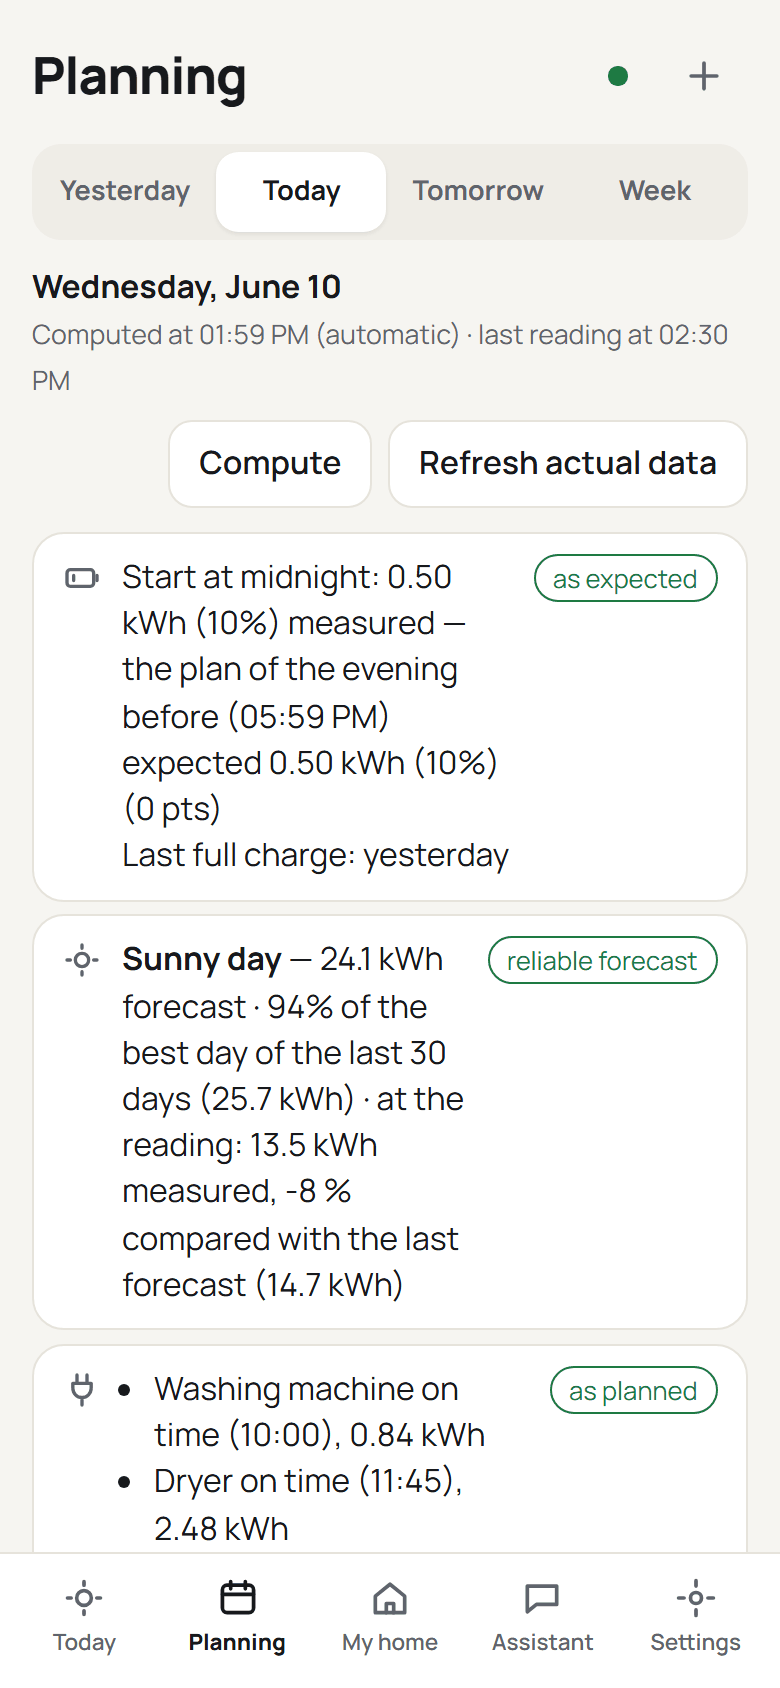
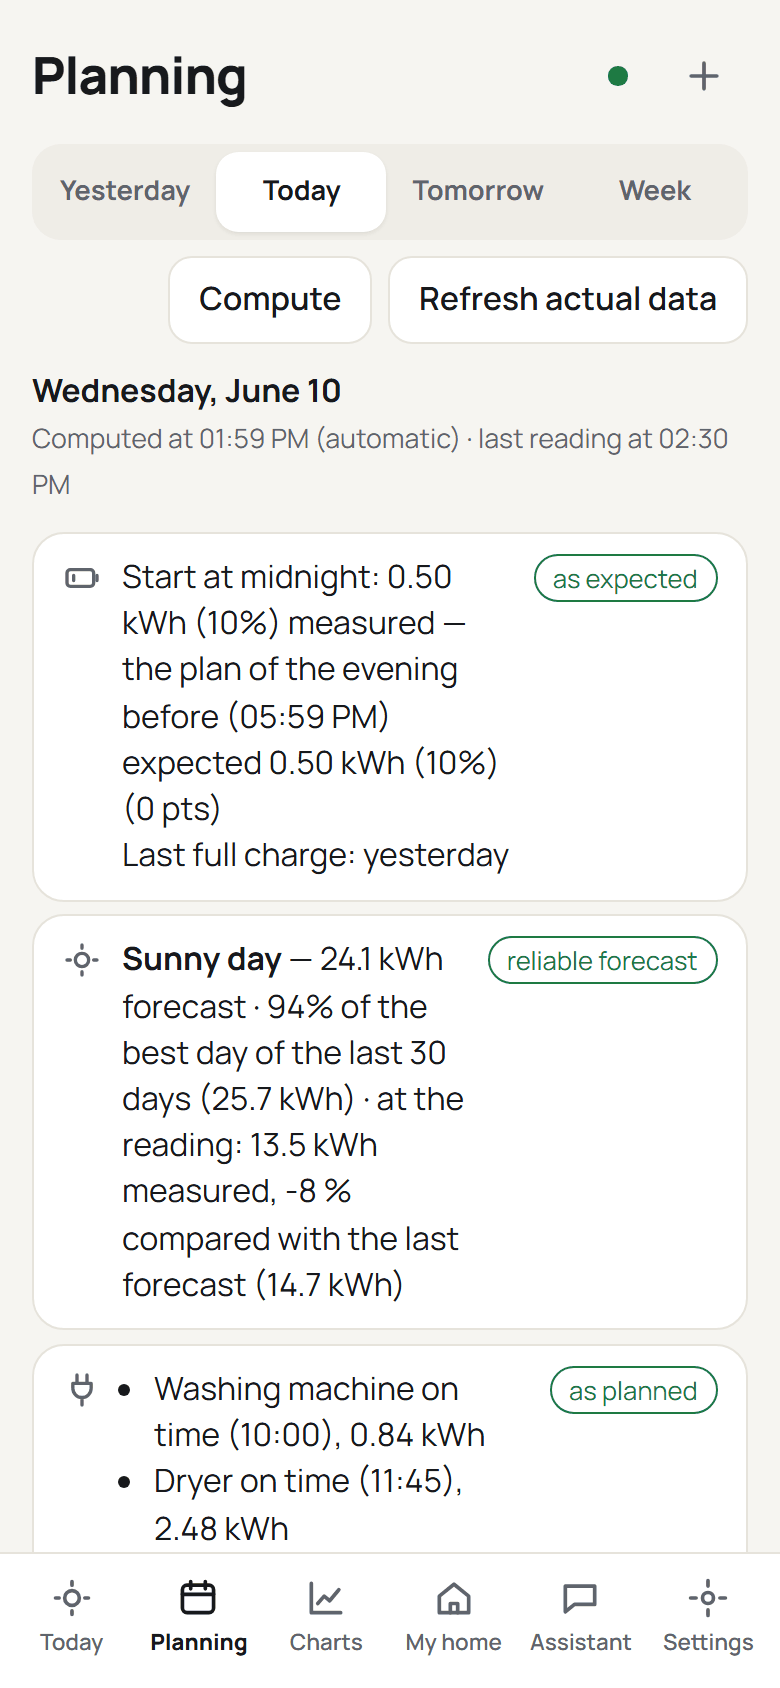
Guide : section Courbes, bêta, captures refaites
- Les écrans : six sections ; nouvelle section Courbes (Charts en anglais),
  sortie de Planning, avec la Semaine en tableau ; onglet Données illustré ;
  cartes « Version bêta » et « Soutenir WattSlot » des Réglages.
- Accueil du guide et FAQ : comment donner son avis sur la bêta.
- Les 26 captures refaites sur la maison de démonstration (EN et FR),
  plus Courbes, la Semaine et l'onglet Données.
- Outil de captures : dossier docs/images, onglet choisi par capture, et
  horloge du navigateur corrigée (Playwright lisait les millisecondes comme
  des secondes : l'an 58410, d'où l'onglet Données en erreur).
- « Donner mon avis » n'est plus souligné.
- README : capture d'Aujourd'hui sur ordinateur ; « Charts » en anglais.

diff --git a/app/frontend/src/styles.css b/app/frontend/src/styles.css
@@ -2122,6 +2122,11 @@ p[role="status"]:not(.state-message) {
   vertical-align: middle;
 }
 
+/* « Donner mon avis » : un lien qui a l'air d'un bouton, sans soulignement. */
+.beta-cards a.ui-button {
+  text-decoration: none;
+}
+
 .beta-cards {
   display: grid;
   gap: 1rem;

diff --git a/dev/tools/screenshots.py b/dev/tools/screenshots.py
@@ -6,7 +6,7 @@ Sur la démonstration de ``tools.demo`` (maison synthétique, aucune donnée ré
 1. génère le dossier de données (31 jours simulés, calculs horaires du vrai serveur) ;
 2. lance l'application sur ce dossier, heure figée, connectée au faux Home Assistant ;
 3. photographie les écrans (``SHOTS``) sur téléphone et sur ordinateur, en thème clair (Ivoire)
-   et sombre (Graphite), dans ``public/docs/images/<langue>/`` ; le navigateur est à la même
+   et sombre (Graphite), dans ``docs/images/<langue>/`` ; le navigateur est à la même
    heure que le serveur et n'atteint aucun site extérieur.
 
 Prérequis : l'interface construite (``npm run build`` dans ``app/frontend``), l'environnement du
@@ -28,11 +28,12 @@ import urllib.request
 from collections.abc import Iterator
 from contextlib import contextmanager
 from dataclasses import dataclass
+from datetime import UTC, datetime
 from pathlib import Path
 
 ROOT = Path(__file__).resolve().parents[2]
 DEV = ROOT / "dev"
-OUTPUT = ROOT / "public" / "docs" / "images"
+OUTPUT = ROOT / "docs" / "images"
 LANGUAGES = ("en", "fr")
 THEMES = {"light": "ivory", "dark": "graphite"}
 DEVICES = {"phone": (390, 844), "desktop": (1440, 900)}
@@ -47,6 +48,8 @@ class Shot:
     device: str  # clé de DEVICES
     theme: str  # clé de THEMES
     full_page: bool = False
+    # Préférences de la capture : onglet de Courbes (``plan.tab``) ou de Ma maison (``home.tab``).
+    extra: tuple[tuple[str, str], ...] = ()
 
 
 SHOTS: tuple[Shot, ...] = (
@@ -56,11 +59,19 @@ SHOTS: tuple[Shot, ...] = (
     Shot("planning-desktop-light", "/planning", "desktop", "light", full_page=True),
     Shot("planning-desktop-dark", "/planning", "desktop", "dark", full_page=True),
     Shot("planning-phone-light", "/planning", "phone", "light"),
+    Shot("curves-desktop-light", "/curves", "desktop", "light", full_page=True),
+    Shot("curves-week-desktop-light", "/curves", "desktop", "light", extra=(("plan.tab", "week"),)),
     Shot("home-desktop-light", "/home", "desktop", "light"),
+    Shot("home-data-desktop-light", "/home", "desktop", "light", extra=(("home.tab", "data"),)),
     Shot("assistant-desktop-light", "/assistant", "desktop", "light"),
-    Shot("settings-desktop-light", "/settings", "desktop", "light"),
+    Shot("settings-desktop-light", "/settings", "desktop", "light", full_page=True),
     Shot("status-desktop-light", "/settings/status", "desktop", "light"),
 )
+
+
+def browser_now() -> datetime:
+    """Heure figée du navigateur, celle de la démonstration."""
+    return datetime.fromtimestamp(NOW_MS / 1000, tz=UTC)
 
 
 def output_path(language: str, shot: Shot) -> Path:
@@ -70,10 +81,10 @@ def output_path(language: str, shot: Shot) -> Path:
 def storage(language: str, shot: Shot) -> dict[str, str]:
     """Préférences du navigateur posées avant la capture (clés de l'interface)."""
     return {
+        **dict(shot.extra),
         "wattslot.language": language,
         "wattslot.theme": THEMES[shot.theme],
         "wattslot.menu": "open",
-        "plan.curves": "open",  # « Courbes détaillées » dépliées dans Planning
     }
 
 
@@ -169,7 +180,8 @@ def capture(app_url: str, language: str, shots: tuple[Shot, ...]) -> list[Path]:
                 + ")) localStorage.setItem(k, v);"
             )
             page = context.new_page()
-            page.clock.set_fixed_time(NOW_MS)
+            # Une date, pas un nombre : Playwright lit un nombre en secondes (an 58410 avec des ms).
+            page.clock.set_fixed_time(browser_now())
             page.goto(f"{app_url}/?lang={language}#{shot.route}")
             page.wait_for_load_state("networkidle")
             page.wait_for_timeout(1500)  # graphiques chargés à la demande, animations

diff --git a/dev/tools/tests/test_screenshots.py b/dev/tools/tests/test_screenshots.py
@@ -7,6 +7,7 @@ from tools.screenshots import (
     OUTPUT,
     SHOTS,
     THEMES,
+    browser_now,
     local_url,
     output_path,
     storage,
@@ -20,18 +21,21 @@ def test_every_shot_has_a_distinct_file_per_language() -> None:
     assert output_path("fr", SHOTS[0]) == OUTPUT / "fr" / "today-phone-light.png"
 
 
-def test_preferences_set_the_language_the_theme_and_open_curves() -> None:
+def test_preferences_set_the_language_the_theme_and_the_tab() -> None:
     dark = next(shot for shot in SHOTS if shot.theme == "dark")
+    week = next(shot for shot in SHOTS if shot.name == "curves-week-desktop-light")
 
     prefs = storage("fr", dark)
 
     assert prefs["wattslot.language"] == "fr"
     assert prefs["wattslot.theme"] == THEMES["dark"] == "graphite"
-    assert prefs["plan.curves"] == "open"
+    assert "plan.tab" not in prefs
+    assert storage("fr", week)["plan.tab"] == "week"
 
 
 def test_the_browser_clock_is_the_demo_time() -> None:
     assert int(NOW.timestamp() * 1000) == NOW_MS
+    assert browser_now() == NOW
 
 
 def test_only_local_addresses_are_reached() -> None:

diff --git a/docs/fr/screens.md b/docs/fr/screens.md
@@ -2,7 +2,7 @@
 
 *[English version](../screens.md) · [Guide d'utilisation](README.md)*
 
-Cinq sections, dans le menu en bas de l'écran sur un téléphone, à gauche sur un ordinateur (il se replie en icônes avec la flèche en haut). Deux choses sont toujours à portée : la **pastille d'état** (verte : tout fonctionne ; orange : à vérifier ; rouge : le calcul est bloqué) et **Demander un appareil** (le bouton `+`).
+Six sections, dans le menu en bas de l'écran sur un téléphone, à gauche sur un ordinateur (il se replie en icônes avec la flèche en haut). Deux choses sont toujours à portée : la **pastille d'état** (verte : tout fonctionne ; orange : à vérifier ; rouge : le calcul est bloqué) et **Demander un appareil** (le bouton `+`).
 
 ## Aujourd'hui
 
@@ -31,12 +31,22 @@ Le plan en détail, pour **Hier**, **Aujourd'hui**, **Demain** et la **Semaine**
   - Aujourd'hui, les autres départs possibles de chaque appareil se choisissent aussi ici.
 - **Indicateurs du plan** (coût, achat, surplus, autoconsommation…) : sur la journée entière, mesurés pour les heures déjà passées, prévus pour la suite.
 - **Mes demandes** (sous chaque onglet) : les appareils que vous avez demandés, avec ou sans échéance, à marquer faits ou à annuler.
-- **Courbes détaillées** (repliées) : cartes de synthèse (batterie, réseau, production, estimé et mesuré), le Planning des équipements, la charge de la batterie, les échanges avec le réseau et les courbes de production et de consommation, prévues (en pointillés) et mesurées.
-- **Personnaliser** choisit les cartes affichées et leur ordre.
-- Une mesure impossible pour la maison (un compteur qui compte des milliers de kWh en une heure) est écartée : un trou dans les courbes, rien dans les totaux, et une ligne au-dessus des cartes avec **Voir les données** (**Ma maison › Données**).
-- **Semaine** : un tableau d'une ligne par jour (météo, production, batterie, achat dont heures pleines, surplus, appareils) ; touchez un jour pour déplier son détail (appareils et leurs heures, avertissements, **Voir le détail**). Sur téléphone, le tableau garde le jour, la production, la batterie et l'achat, le reste est dans le détail. Puis les courbes de la semaine.
+- **Semaine** : les jours à venir en agenda, une ligne par jour avec ce qui est prévu ; touchez un jour pour l'ouvrir.
 
 ![Planning en thème sombre](../images/fr/planning-desktop-dark.png)
+
+## Courbes
+
+Les chiffres et les graphiques du plan, avec les mêmes onglets que Planning.
+
+![Courbes](../images/fr/curves-desktop-light.png)
+
+- **Un jour** : cartes de synthèse (batterie, réseau, production, estimé et mesuré), le Planning des équipements, la charge de la batterie, les échanges avec le réseau et les courbes de production et de consommation, prévues (en pointillés) et mesurées.
+- **Personnaliser** choisit les cartes affichées et leur ordre.
+- Une mesure impossible pour la maison (un compteur qui compte des milliers de kWh en une heure) est écartée : un trou dans les courbes, rien dans les totaux, et une ligne au-dessus des cartes avec **Voir les données** (**Ma maison › Données**). Les autres mesures restent affichées.
+- **Semaine** : un tableau d'une ligne par jour (météo, production, batterie, achat dont heures pleines, surplus, appareils) ; touchez un jour pour déplier son détail (appareils et leurs heures, avertissements, **Voir le détail**). Sur téléphone, le tableau garde le jour, la production, la batterie et l'achat, le reste est dans le détail. Puis les courbes de la semaine.
+
+![La semaine dans Courbes](../images/fr/curves-week-desktop-light.png)
 
 ## Ma maison
 
@@ -47,6 +57,9 @@ Votre maison en phrases, en quatre onglets. Touchez une ligne : son réglage s'o
 - **L'essentiel** : votre priorité (payer le moins cher, consommer mon soleil…), votre contrat, vos panneaux et votre batterie : voir [Tarifs](tariffs.md) et [Batterie](battery.md).
 - **Appareils** : les appareils placés au meilleur moment, puis, repliés, ceux seulement suivis (souvent de nombreuses prises, avec un champ de recherche), la production, le réseau et la batterie, et les appareils que Home Assistant propose mais que WattSlot ne suit pas encore ; **Ajouter un appareil** et **Relire Home Assistant**. Chaque appareil ouvre sa fiche : ses règles (voir [Votre maison et ses règles](your-home.md)), puis, repliés, ses **capteurs, nom et type**, avec les points à vérifier et **Retirer de ma maison**.
 - **Données** : le contrôle des données de vos compteurs. Un compteur qui compte plus que la maison ne peut tirer (une coupure du capteur comptée comme une remise à zéro : des milliers de kWh en une heure) est corrigé automatiquement : recalculé sur le relevé brut tant qu'il est gardé (trois jours), sinon écarté, et le calcul comme les courbes l'ignorent. Chaque correction s'ouvre dans une feuille : ce qui s'est passé, ce qui a été fait, et les autres choix (recalculer, estimer d'après les heures voisines, écarter, annuler). Les données d'origine ne changent jamais. **Analyser une période** contrôle un compteur ou tous, sur les jours que vous choisissez.
+
+  ![L'onglet Données](../images/fr/home-data-desktop-light.png)
+
 - **Avancé** : **Reprendre les règles des tâches de Home Assistant**, puis **Modèles prêts à l'emploi**, **Sauvegarder ou partager** (exporter ou importer votre maison dans un fichier), **Graphe de la maison** et **Bibliothèque d'appareils** (pour les curieux), et le lexique.
 
 ## Assistant
@@ -64,5 +77,6 @@ Votre maison en phrases, en quatre onglets. Touchez une ligne : son réglage s'o
 - **Langue et affichage** : six langues, cinq thèmes (Ivoire, Graphite, Océan, Prairie, Crépuscule) ou **Automatique**, qui suit le mode clair ou sombre de votre appareil, et la **devise** de vos prix et de vos coûts. Par défaut, celle de Home Assistant (Paramètres › Système › Général) ; en changer ne convertit pas les prix déjà saisis.
 - **État de l'application** : ce qui ne va pas, s'il y a lieu, et comment le corriger ; la version, et s'il en existe une nouvelle ; les liens pour soutenir le projet ; un rapport à joindre à un signalement ([Dépannage](troubleshooting.md)).
 - **Connexion à Home Assistant** (mode autonome).
+- En bas, **Version bêta**, avec **Donner mon avis** (un formulaire tout prêt sur GitHub), et **Soutenir WattSlot** (GitHub Sponsors et Ko-fi).
 
 ![État de l'application](../images/fr/status-desktop-light.png)

diff --git a/docs/screens.md b/docs/screens.md
@@ -2,7 +2,7 @@
 
 *[Version française](fr/screens.md) · [User guide](README.md)*
 
-Five sections, in the menu at the bottom of the screen on a phone, on the left on a computer (it folds into icons with the arrow at its top). Two things are always at hand: the **status dot** (green: all good; orange: needs a look; red: planning is blocked) and **Request an appliance** (the `+` button).
+Six sections, in the menu at the bottom of the screen on a phone, on the left on a computer (it folds into icons with the arrow at its top). Two things are always at hand: the **status dot** (green: all good; orange: needs a look; red: planning is blocked) and **Request an appliance** (the `+` button).
 
 ## Today
 
@@ -31,12 +31,22 @@ The plan in detail, for **Yesterday**, **Today**, **Tomorrow** and the **Week**.
   - Today, the other possible starts of each appliance can be chosen here too.
 - **Plan indicators** (cost, purchases, surplus, self-consumption…): for the whole day, measured for the hours already past, planned for the rest.
 - **My requests** (under each tab): the appliances you asked for, with or without a deadline, to mark done or cancel.
-- **Detailed charts** (folded): summary cards (battery, grid, production, estimated against measured), the appliance schedule, the battery charge, the grid exchanges and the production and consumption curves, planned (dotted) and measured.
-- **Customize** chooses which cards appear and their order.
-- A measurement the home cannot reach (a meter counting thousands of kWh in one hour) is set aside: a gap in the curves, nothing in the totals, and a line above the cards with **See the data** (**My home › Data**).
-- **Week**: a table with one row per day (weather, production, battery, purchases including peak hours, surplus, appliances); tap a day to unfold its details (appliances and their times, warnings, **See the detail**). On a phone, the table keeps day, production, battery and purchases, the rest is in the details. Then the week's charts.
+- **Week**: the coming days as an agenda, one line per day with what is planned; tap a day to open it.
 
 ![Planning in the dark theme](images/en/planning-desktop-dark.png)
+
+## Charts
+
+The figures and charts of the plan, with the same tabs as Planning.
+
+![Charts](images/en/curves-desktop-light.png)
+
+- **A day**: summary cards (battery, grid, production, estimated against measured), the appliance schedule, the battery charge, the grid exchanges and the production and consumption curves, planned (dotted) and measured.
+- **Customize** chooses which cards appear and their order.
+- A measurement the home cannot reach (a meter counting thousands of kWh in one hour) is set aside: a gap in the curves, nothing in the totals, and a line above the cards with **See the data** (**My home › Data**). The other measurements stay displayed.
+- **Week**: a table with one row per day (weather, production, battery, purchases including peak hours, surplus, appliances); tap a day to unfold its details (appliances and their times, warnings, **See the detail**). On a phone, the table keeps day, production, battery and purchases, the rest is in the details. Then the week's charts.
+
+![The week in Charts](images/en/curves-week-desktop-light.png)
 
 ## My home
 
@@ -47,6 +57,9 @@ Your home in plain sentences, in four tabs. Tap a line: its setting opens on its
 - **Essentials**: your priority (pay as little as possible, use my own sun…), your contract, your panels and your battery: see [Tariffs](tariffs.md) and [Battery](battery.md).
 - **Devices**: the appliances placed at the best time, then, folded, those only monitored (often many plugs, with a search field), the production, grid and battery, and the devices Home Assistant suggests but WattSlot does not follow yet; **Add a device** and **Re-read Home Assistant**. Each device opens its sheet: its rules (see [Your home and its rules](your-home.md)), then, folded, its **sensors, name and type**, with the points to check and **Remove from my home**.
 - **Data**: the check of your meters' data. A meter that counts more than the home can draw (a sensor dropout counted as a reset: thousands of kWh in one hour) is corrected automatically: recomputed from the raw readings while they are kept (three days), otherwise set aside, so the calculation and the charts ignore it. Each correction opens in a sheet: what happened, what was done, and the other choices (recompute, estimate from the neighbouring hours, set aside, undo). The original data is never changed. **Check a period** analyses one meter or all of them over the days you choose.
+
+  ![The Data tab](images/en/home-data-desktop-light.png)
+
 - **Advanced**: **Import the rules of Home Assistant tasks**, then **Ready-made templates**, **Back up or share** (export or import your home as a file), **Home graph** and **Appliance library** (for the curious), and the glossary.
 
 ## Assistant
@@ -64,5 +77,6 @@ Your home in plain sentences, in four tabs. Tap a line: its setting opens on its
 - **Language and display**: six languages, five themes (Ivory, Graphite, Ocean, Meadow, Dusk) or **Automatic**, which follows your device's light or dark mode, and the **currency** of your prices and costs. By default it is Home Assistant's (Settings › System › General); changing it does not convert the prices already entered.
 - **App status**: what is wrong, if anything, and how to fix it; the version, and whether a new one exists; links to support the project; a report to attach to a bug report ([Troubleshooting](troubleshooting.md)).
 - **Home Assistant connection** (standalone mode).
+- At the bottom, **Beta version**, with **Give feedback** (a ready-made form on GitHub), and **Support WattSlot** (GitHub Sponsors and Ko-fi).
 
 ![App status](images/en/status-desktop-light.png)

diff --git a/README.md b/README.md
@@ -24,7 +24,7 @@
 <p align="center">
   <img src="docs/images/en/today-phone-light.png" alt="Today, on a phone" height="360">
   &nbsp;
-  <img src="docs/images/en/planning-desktop-light.png" alt="Planning, on a computer" height="360">
+  <img src="docs/images/en/today-desktop-light.png" alt="Today, on a computer" height="360">
 </p>
 
 ## Features
@@ -32,7 +32,7 @@
 - **Reads your home from Home Assistant**: the Energy dashboard gives the solar production, the grid, the battery and the tracked appliances; past data comes from the statistics. Nothing to type in to get started.
 - **Daily plan and seven-day horizon**: when to start each appliance, when to charge or discharge the battery, from the solar forecast and your prices (single price, off-peak hours, colour days, dynamic prices read from an entity).
 - **Your home, your rules**: appliance behaviours, time windows, recurrences, battery settings, and what to optimise (cost, self-consumption, grid draw, CO₂). Ready-made templates, backup and sharing.
-- **Made for every day**: Today, Planning, Curves, My home, Assistant, Settings. Phone first, five themes with automatic light and dark, six languages.
+- **Made for every day**: Today, Planning, Charts, My home, Assistant, Settings. Phone first, five themes with automatic light and dark, six languages.
 - **Requests and reminders**: ask for an appliance from the app or from Home Assistant's Assist, get notified at the right time.
 - **Data you can trust**: WattSlot checks your sensors, flags glitches and lets you correct them, so one wrong reading does not spoil the rest.
 - **Assistant (optional)**: a built-in MCP server lets Home Assistant's Assist answer questions about your plan, with the language model you already use.

diff --git a/docs/fr/troubleshooting.md b/docs/fr/troubleshooting.md
@@ -43,4 +43,6 @@
 
 **Combien écrit-il sur le disque ?** Quelques Go par jour au plus en usage normal ; la première reprise de l'historique écrit davantage, une seule fois. Prenez un SSD plutôt qu'une carte SD.
 
+**Comment donner mon avis sur la bêta ?** Avec **Donner mon avis**, en bas des **Réglages**, ou directement avec le [formulaire de retour de bêta](https://github.com/jmcruvellier/wattslot/issues/new?template=beta_feedback.yml) : ce qui marche, ce qui gêne, ce que vous n'avez pas compris. En français ou en anglais.
+
 **Où poser une question ?** Dans les [Discussions](https://github.com/jmcruvellier/wattslot/discussions) ; pour un bogue, ouvrez un [ticket GitHub](https://github.com/jmcruvellier/wattslot/issues/new/choose).

diff --git a/docs/troubleshooting.md b/docs/troubleshooting.md
@@ -43,4 +43,6 @@
 
 **How much does it write to the disk?** A few GB per day at most in normal use; the first history import writes more, once. Use an SSD rather than an SD card.
 
+**How do I give feedback on the beta?** With **Give feedback**, at the bottom of **Settings**, or directly with the [beta feedback form](https://github.com/jmcruvellier/wattslot/issues/new?template=beta_feedback.yml): what works, what bothers you, what you did not understand. English or French.
+
 **Where do I ask a question?** In the [Discussions](https://github.com/jmcruvellier/wattslot/discussions); for a bug, open a [GitHub issue](https://github.com/jmcruvellier/wattslot/issues/new/choose).

diff --git a/docs/fr/README.md b/docs/fr/README.md
@@ -4,6 +4,8 @@
 
 WattSlot trouve le bon créneau pour lancer vos appareils : quand votre électricité solaire est là, ou quand l'électricité est la moins chère. Il lit votre maison dans Home Assistant, calcule un plan pour aujourd'hui et la semaine, et vous dit quoi lancer et quand. Il recommande ; vous décidez.
 
+> **Bêta.** Vos retours décident de la suite : [donnez votre avis](https://github.com/jmcruvellier/wattslot/issues/new?template=beta_feedback.yml), ou utilisez **Donner mon avis** en bas des **Réglages**.
+
 ![Aujourd'hui, sur un téléphone](../images/fr/today-phone-light.png)
 
 ## Par où commencer

diff --git a/docs/README.md b/docs/README.md
@@ -4,6 +4,8 @@
 
 WattSlot finds the right slot to run your household appliances: when your own solar power is there, or when electricity is cheapest. It reads your home from Home Assistant, computes a plan for today and the coming week, and tells you what to start and when. It recommends; you decide.
 
+> **Beta.** Your feedback decides what comes next: [give feedback](https://github.com/jmcruvellier/wattslot/issues/new?template=beta_feedback.yml), or use **Give feedback** at the bottom of **Settings**.
+
 ![Today, on a phone](images/en/today-phone-light.png)
 
 ## Where to start

diff --git a/README.fr.md b/README.fr.md
@@ -24,7 +24,7 @@
 <p align="center">
   <img src="docs/images/fr/today-phone-light.png" alt="Aujourd'hui, sur un téléphone" height="360">
   &nbsp;
-  <img src="docs/images/fr/planning-desktop-light.png" alt="Planning, sur un ordinateur" height="360">
+  <img src="docs/images/fr/today-desktop-light.png" alt="Aujourd'hui, sur un ordinateur" height="360">
 </p>
 
 ## Fonctions
